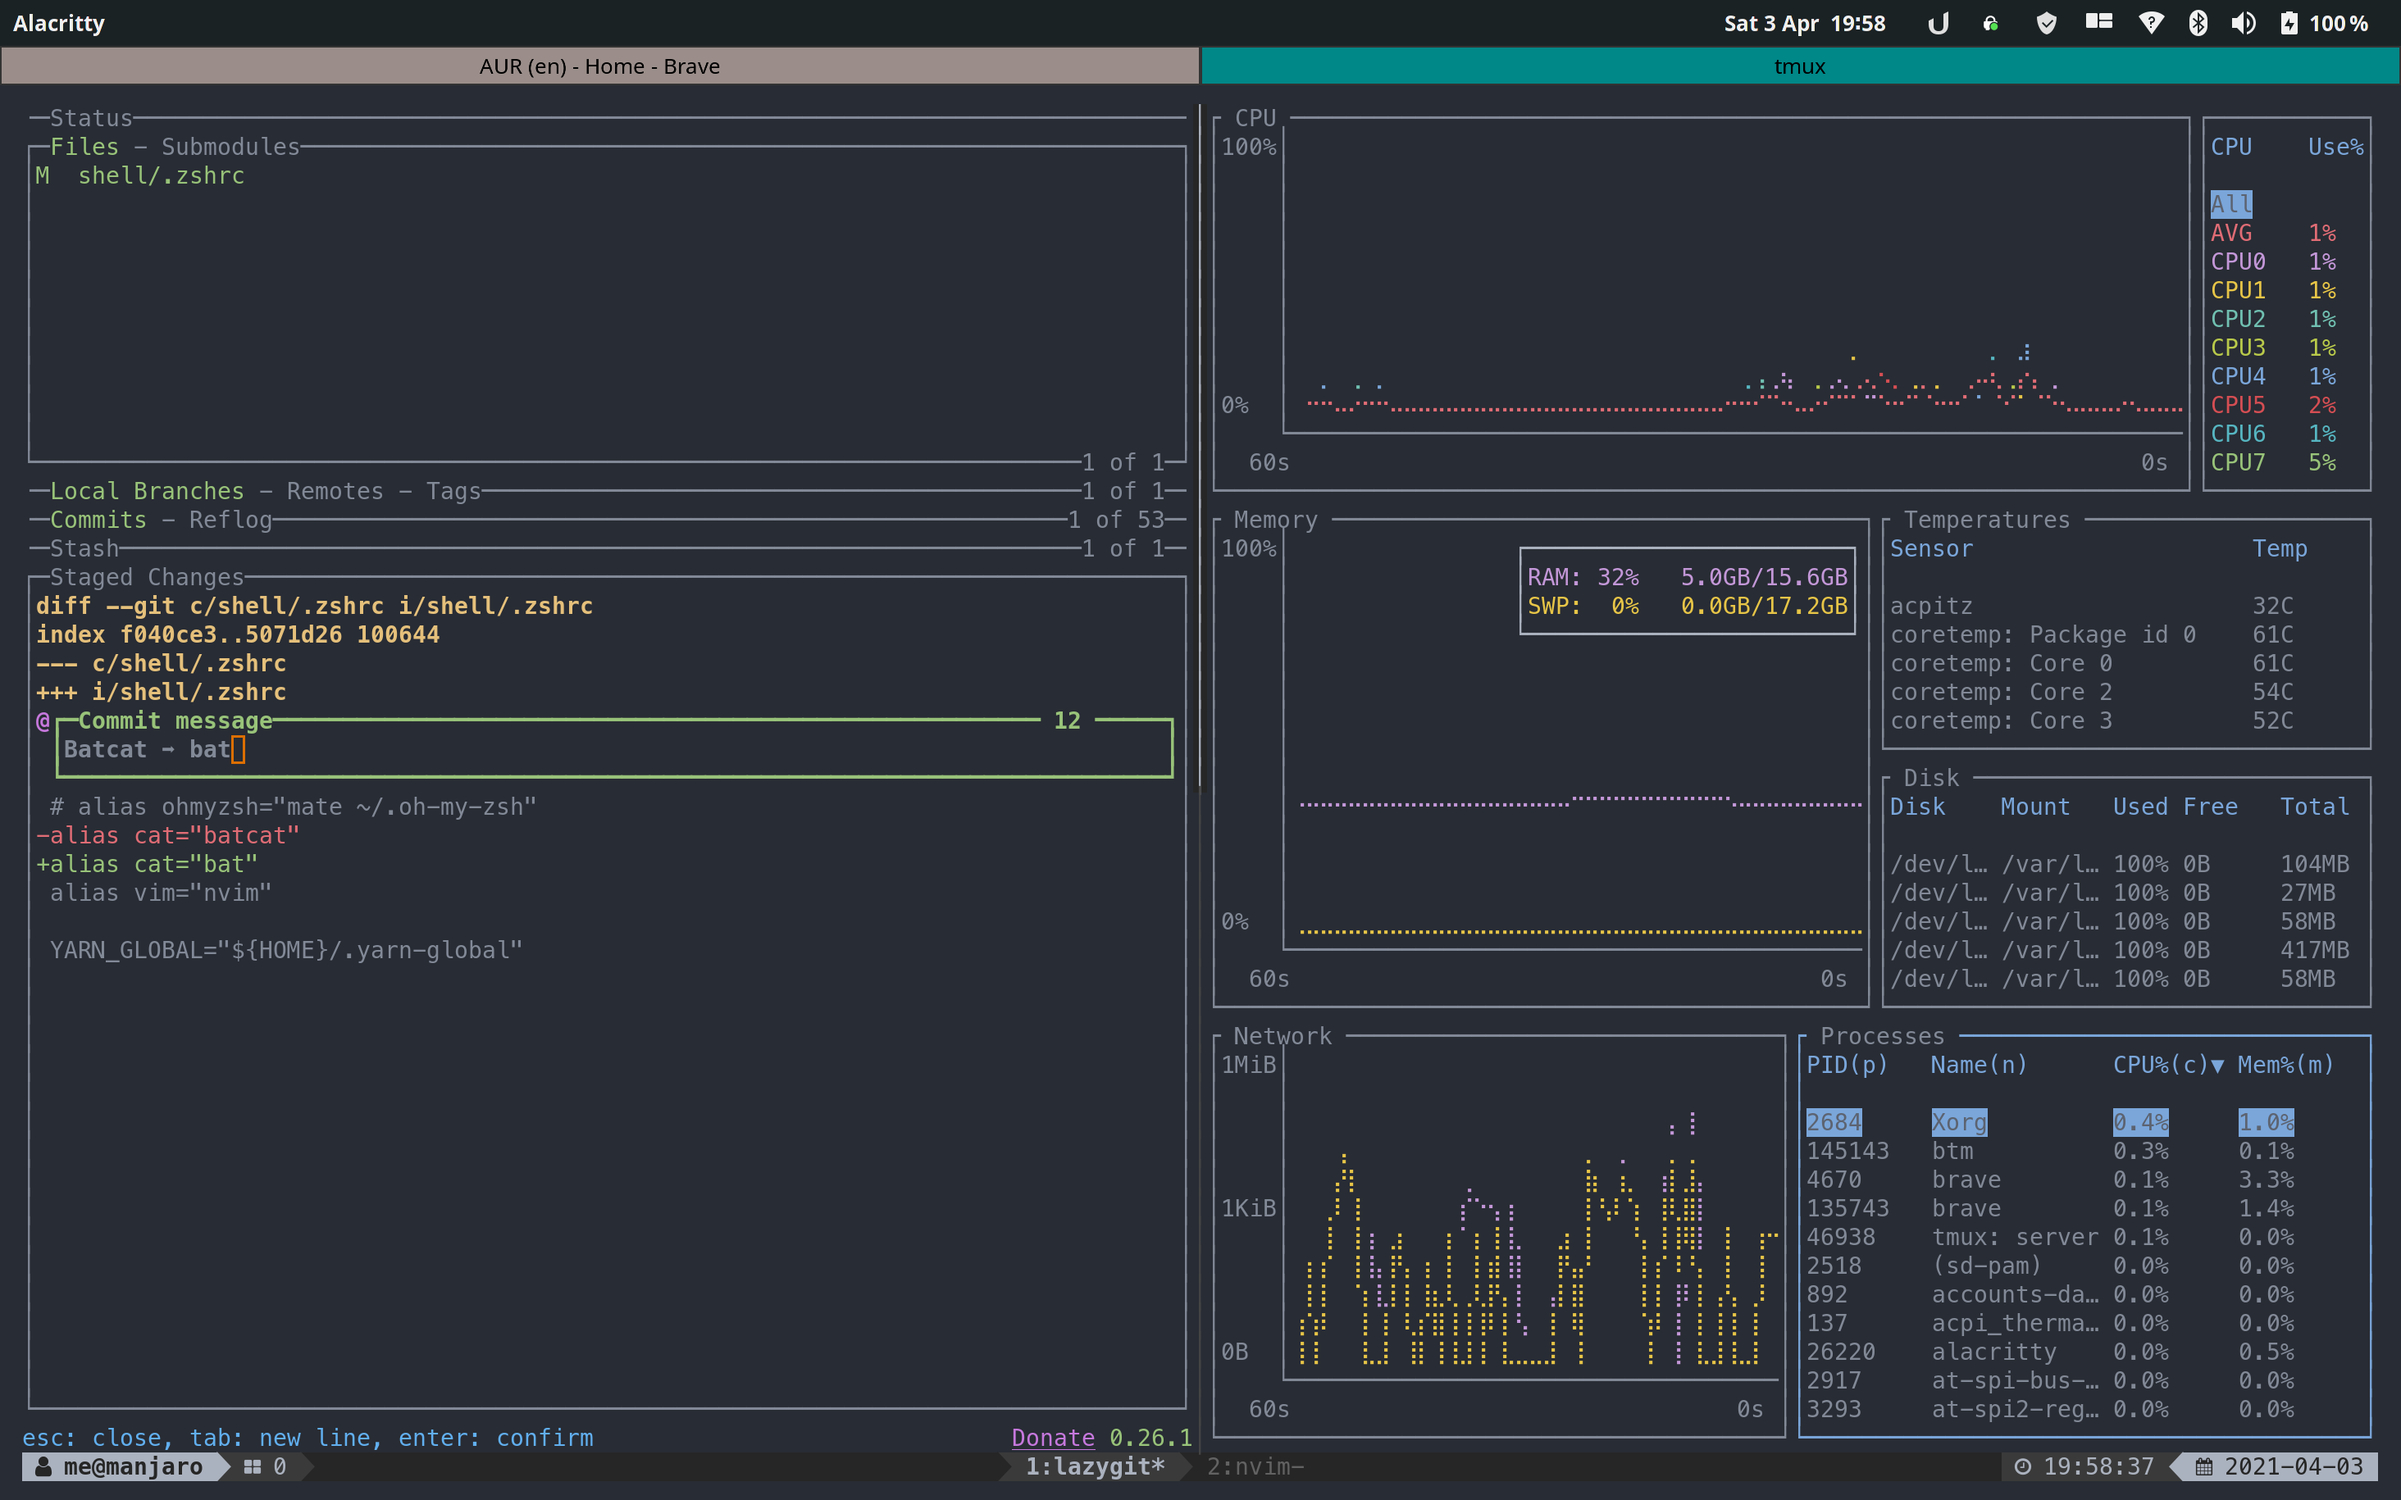
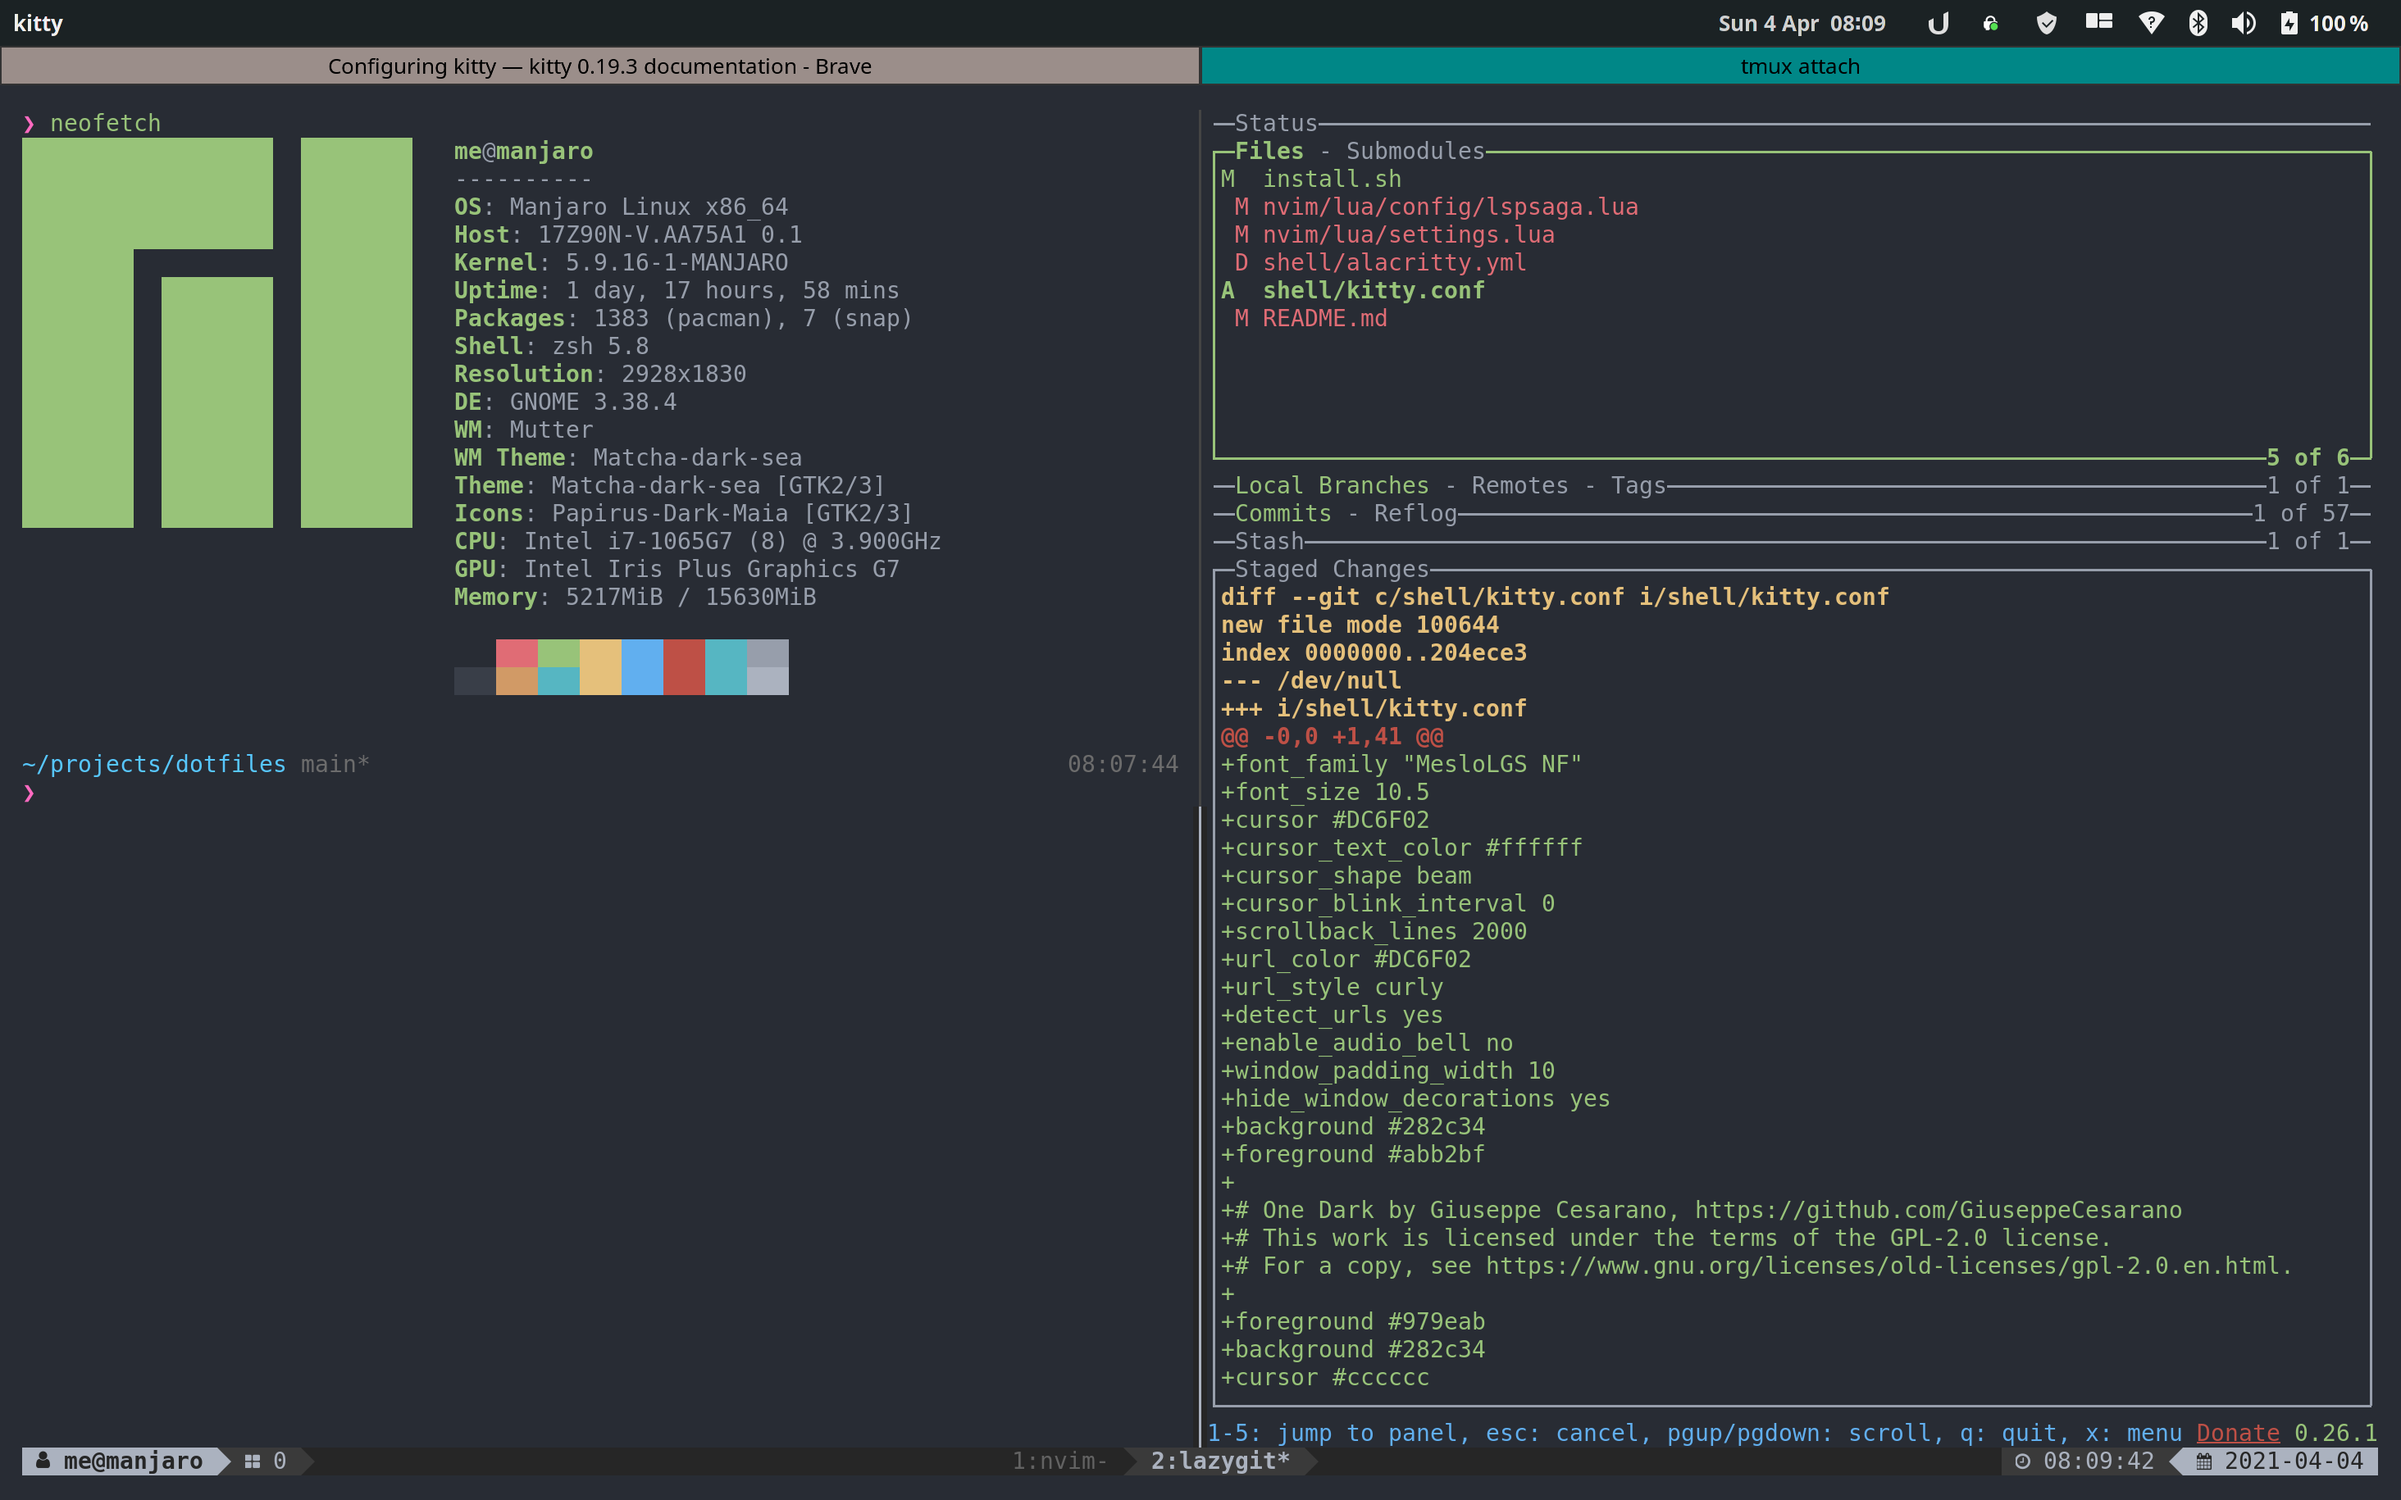
😹 Kitty in alacritty out

diff --git a/README.md b/README.md
@@ -5,7 +5,7 @@ Instructions are for Arch-based distributions.
 #### Screenshot
 
 ![Neovim](https://github.com/davidkariuki/dotfiles/raw/main/screenshots/nvim.png "Neovim")
-![Alacritty](https://github.com/davidkariuki/dotfiles/raw/main/screenshots/terminal.png "Alacritty")
+![Kitty](https://github.com/davidkariuki/dotfiles/raw/main/screenshots/terminal.png "Kitty")
 
 ### Fonts
 
@@ -16,7 +16,7 @@ Install the fonts in ./font
 ### Base
 
 ```zsh
-sudo pacman -S --needed zsh tmux bat neofetch alacritty lazygit github-cli npm
+sudo pacman -S --needed zsh tmux bat neofetch kitty lazygit github-cli npm
 yay -S --needed neovim-nightly-bin bottom rbenv ruby-build rg
 ```
 
@@ -29,8 +29,6 @@ gh auth login
 ## Config dirs
 
 ```zsh
-mkdir -p ~/.config/nvim
-mkdir -p ~/.config/alacritty/alacritty
 mkdir -p ~/.tmux/plugins
 mkdir ~/.npm-global
 mkdir ~/.yarn-global
